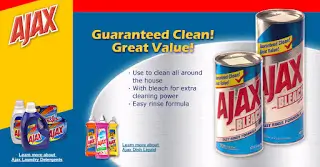
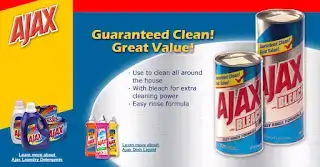
feat: shrink

diff --git a/blog-website/blog/2012-01-14-jqgrid-its-just-far-better-grid/index.md b/blog-website/blog/2012-01-14-jqgrid-its-just-far-better-grid/index.md
@@ -18,11 +18,11 @@ hide_table_of_contents: false
 
 The year was 2010 (not really that long ago I know) and the project that I was working on was sorely in need of a new grid component. It was an [ASP.NET WebForms](http://www.asp.net/web-forms) project and for some time we'd been using what was essentially a glorified [datagrid](http://msdn.microsoft.com/en-us/library/system.web.ui.webcontrols.datagrid.aspx) which had a few extra features implemented to allow us to change column order / columns displayed / copy contents to clipboard etc. Our grid worked perfectly fine - it gave us the functionality we needed. However, it looked pretty terrible, and had some "quirky" approaches in place for supporting IE and Firefox side by side. Also, at the time we were attempting to make our app seem new and exciting again for the users. The surprising truth is that users seem to be more impressed with a visual revamp than with new or amended functionality. So I was looking for something which would make them sit up and say "oooh - isn't it pretty!". Unfortunately the nature of the organisation I was working for was not one that lended itself to paying for components. They were occasionally willing to do that but the hoops that would have to be jumped through first, the forms that would need to be signed in triplicate by people that had nearly nothing to do with the project made that an unattractive prospect. So I began my search initially looking at the various open source offerings that were around. As a minimum I was looking for something that would do what our home-grown component did already (change column order / columns displayed / copy contents to clipboard etc) but hopefully in a "nicer" way. Also, I had long been unhappy with the fact that to get our current grid to render results we did a \***full postback**\* to the server and re-rendered the whole page. Pointless! Why should you need to do all this each time when you only wanted to refresh the data? Instead I was thinking about using an [Ajax](http://en.wikipedia.org/wiki/Ajax_%28programming%29) approach; a grid that could just get the data that it needed and render it to the client. This seemed to me a vastly "cleaner" solution - why update a whole screen when you only want to update a small part of it? Why not save yourself the trouble of having to ensure that all other screen controls are persisted just as you'd like them after the postback? I also thought it was probably something that would scale better as it would massively reduce the amount of data moving backwards and forwards between client and server. No need for a full page life cycle on the server each time the grid refreshes. Just simple data travelling down the pipes of web. With the above criteria in mind I set out on my Google quest for a grid. Quite soon I found that there was a component out there which seemed to do all that I wanted and far more besides. It was called [jqGrid](http://www.trirand.com/blog/):
 
-![](jqgrid-in-all-its-glory.png)
+![](jqgrid-in-all-its-glory.webp)
 
 Oooh look at the goodness! It had both column re-ordering and column choosing built in!: This was a \***very promising sign**\*! Now it's time for me to demonstrate my ignorance. According to the website this grid component was a "jQuery plugin". At the time I read this I had no idea what jQuery was at all - let alone what a plugin for it was. Anyway, I don't want to get diverted so let's just say that reading this lead to me getting an urgent education about some of the client side aspects of the modern web that I had been previously unaware of. I digress. This component did exactly what I wanted in terms of just sending data down the pipe. jqGrid worked with a whole number of possible data sources; XML, Array but the most exciting for me was obviously [JSON](http://www.json.org/). Take a look a the grid rendered below and the JSON that powered it (all from a simple [GET](http://www.trirand.com/blog/jqgrid/server.php?q=2&_search=false&nd=1326531357333&rows=10&page=1&sidx=id&sord=desc) request):
 
-![](Check-out-the-JSON.png)
+![](Check-out-the-JSON.webp)
 
 As you can see from the above screenshot, the grid has populated itself using the results of a web request. The only information that has gone to the server are the relevant criteria to drive the search results. The only information that has come back from the server is the data needed to drive the grid. Simple. Beautiful. I loved it and I wanted to use it. So I did! I had to take a few steps that most people thinking about using a grid component probably wont need to. First of all I had to write an ASP.Net WebForms wrapper for jqGrid which could be implemented in a similar way to our current custom datagrid. This was because, until the users were convinced that the new grid was better than the old both had to co-exist in the project and the user would have the option to switch between the two. This WebForms wrapper plugged into our old school XML column definition files and translated them into JSON for the grid. It also took [datasets](http://msdn.microsoft.com/en-us/library/system.data.dataset.aspx) (which drove our old grid) and translated them into jqGrid-friendly JSON. I wanted to power the jqGrid using WebMethods on ASPX's. After a little digging I found [Dave Ward of Encosia's post](http://encosia.com/using-jquery-to-directly-call-aspnet-ajax-page-methods/) which made it very simple (and in line with this I switched over from [GET](http://en.wikipedia.org/wiki/GET_%28HTTP%29#Request_methods) requests to [POSTs](http://en.wikipedia.org/wiki/POST_%28HTTP%29)). Finally I wrote some custom javascript which added a button to jqGrid which, if clicked, would copy the contents of the jqGrid to the clipboard (this was the only bit of functionality that didn't appear to be implemented out of the box with jqGrid). I think I'm going to leave it there for now but I just wanted to say that I think jqGrid is a fantastic component and it's certainly made my life better! It's: - well supported, there is lots on [StackOverflow](http://stackoverflow.com/questions/tagged/jqgrid) and the like about it
 

diff --git a/blog-website/blog/2012-04-23-jshint-customising-your-hurt-feelings/index.md b/blog-website/blog/2012-04-23-jshint-customising-your-hurt-feelings/index.md
@@ -18,7 +18,7 @@ hide_table_of_contents: false
 
 As I've started making greater use of JavaScript to give a richer GUI experience the amount of JS in my ASP.NET apps has unsurprisingly ballooned. If I'm honest, I hadn't given much consideration to the code quality of my JavaScript in the past. However, if I was going to make increasing use of it (and given the way the web is going at the moment I'd say that's a given) I didn't think this was tenable position to maintain. A friend of mine works for [Coverity](http://www.coverity.com/) which is a company that provides tools for analysing code quality. I understand, from conversations with him, that their tools provide static analysis for compiled languages such as C++ / C# / Java etc. I was looking for something similar for JavaScript. Like many, I have read and loved [Douglas Crockford's "JavaScript: The Good Parts"](http://www.amazon.com/JavaScript-Good-Parts-Douglas-Crockford/dp/0596517742); it is by some margin the most useful and interesting software related book I have read.So I was aware that Crockford had come up with his own JavaScript code quality tool called [JSLint](http://www.jslint.com/). JSLint is quite striking when you first encounter it:
 
-![](JSLint.png)
+![](JSLint.webp)
 
 It's the "Warning! JSLint will hurt your feelings." that grabs you. And it's not wrong. I've copied and pasted code that I've written into JSLint and then gasped at the reams of errors JSLint would produce. I subsequently tried JSLint-ing various well known JS libraries (jQuery etc) and saw that JSLint considered they were thoroughly problematic as well. This made me feel slightly better. It was when I started examining some of the "errors" JSLint reported that I took exception. Yes, I took exception to exceptions! (I'm \***very**\* pleased with that!) Here's a few of the errors generated by JSLint when inspecting [jquery-1.7.2.js](http://ajax.googleapis.com/ajax/libs/jquery/1.7.2/jquery.js): - `Problem at line 16 character 10: Expected exactly one space between 'function' and '('.`
 
@@ -32,7 +32,7 @@ JSLint is, much like it's creator, quite opinionated. Which is no bad thing. Man
 
 These were much more the sort of "issues" I was interested in. Plus it seemed there was plenty of scope to tweak my options. Excellent. This was good. The icing on my cake would have been a plug-in for Visual Studio which would allow me to evaluate my JS files from within my IDE. Happily the world seems to be full of developers doing good turns for one another. I discovered an extension for VS called [JSLint for Visual Studio 2010](http://jslint4vs2010.codeplex.com/):
 
-![](Extensions.png)
+![](Extensions.webp)
 
 This was an extension that provided either JSLint \***or**\* JSHint evaluation as you preferred from within Visual Studio. Fantastic! With this extension in play you could add JavaScript static code analysis to your compilation process and so learn of all the issues in your code at the same time, whether they lay in C# or JS or [insert language here]. You could control how JS problems were reported; as warnings, errors etc. You could straightforwardly exclude files from evaluation (essential if you're reliant on a number of 3rd party JS libraries which you are not responsible for maintaining). You could cater for predefined variables; allow for jQuery or DOJO. You could simply evaluate a single file in your solution by right clicking it and hitting the "JS Lint" option in the context menu. And it was simplicity itself to activate and deactivate the JSHint / JSLint extension as required. For a more exhaustive round up of the options available I advise taking a look here: [http://jslint4vs2010.codeplex.com](http://jslint4vs2010.codeplex.com/). I would heartily recommend using JSHint if you're looking to improve your JS code quality. I'm grateful to Crockford for making JSHint possible by first writing JSLint. For my part though I think JSHint is the more pragmatic and useful tool and likely to be the one I stick with. For interest (and frankly sheer entertainment value at the crotchetiness of Crockford) it's definitely worth having a read up on how JSHint came to pass: - [http://anton.kovalyov.net/2011/02/20/why-i-forked-jslint-to-jshint/](http://anton.kovalyov.net/2011/02/20/why-i-forked-jslint-to-jshint/)
 

diff --git a/blog-website/blog/2012-04-28-beg-steal-or-borrow-decent-javascript/index.md b/blog-website/blog/2012-04-28-beg-steal-or-borrow-decent-javascript/index.md
@@ -22,7 +22,7 @@ I've so named this blog post because it shamelessly borrows from the fine work o
 
 Like many, I've long been frustrated with the quirky DateTime serialisation employed by the `System.Web.Script.Serialization.JavaScriptSerializer` class. When serialising DateTimes so they can be JSON.parsed on the client, this serialiser uses the following approach: (from MSDN) [_Date object, represented in JSON as "\/Date(number of ticks)\/". The number of ticks is a positive or negative long value that indicates the number of ticks (milliseconds) that have elapsed since midnight 01 January, 1970 UTC."_](http://msdn.microsoft.com/en-us/library/system.web.script.serialization.javascriptserializer.aspx) Now this is not particularly helpful in my opinion because it's not human readable (at least not this human; perhaps [Jon Skeet](http://stackoverflow.com/users/22656/jon-skeet)...) When consuming your data from web services / PageMethods using [jQuery.ajax](http://api.jquery.com/jQuery.ajax/) you are landed with the extra task of having to convert what were DateTimes on the server from Microsofts string Date format (eg `"\/Date(1293840000000)\/"`) into actual JavaScript Dates. It's also unhelpful because it's divergent from the approach to DateTime / Date serialisation used by a native JSON serialisers:
 
-![](FireBug-Dates.png)
+![](FireBug-Dates.webp)
 
 Just as an aside it's worth emphasising that one of the limitations of JSON is that the JSON.parsing of a JSON.stringified date will \***not**\* return you to a JavaScript Date but rather an ISO 8601 date string which will need to be subsequently converted into a Date. Not JSON's fault - essentially down to the absence of a Date literal within JavaScript. ## Making JavaScriptSerializer behave more JSON'y
 
@@ -42,7 +42,7 @@ With this in place I could parse ISO 8601 Dates just like anyone else. Great stu
 
 Subsequent to writing this post I thought I'd check that IE 9 had implemented a JavaScript Date constructor that would process an ISO 8601 date string like this: `new Date("2011-01-01T00:00:00.0000000Z")`. It hasn't. Take a look:
 
-![](IE9-screenshot.png)
+![](IE9-screenshot.webp)
 
 This is slightly galling as the above code works dandy in Firefox and Chrome. As you can see from the screenshot you can get the JavaScript IE 9 Date constructor to play nice by trimming off the final 4 "0"'s from the string. Frustrating. Obviously we can still use Nathan's solution but it's a shame that we can't use the native support. Based on what I've read [here](http://msdn.microsoft.com/en-us/library/az4se3k1.aspx#Roundtrip) I think it would be possible to amend Sebastians serializer to fall in line with IE 9's pendantry by changing this:
 

diff --git a/blog-website/blog/2012-05-30-dad-didnt-buy-any-games/index.md b/blog-website/blog/2012-05-30-dad-didnt-buy-any-games/index.md
@@ -7,14 +7,14 @@ hide_table_of_contents: false
 
 Inspired by [Hanselmans post on how he got started in programming](http://www.hanselman.com/blog/SheLetMeTakeTheComputerHomeHowDidYouGetStartedInComputersAndProgramming.aspx) I thought I'd shared my own tale about how it all began... I grew up the 80's just outside London. For those of you of a different vintage let me paint a picture. These were the days when "Personal Computers", as they were then styled, were taking the world by storm. Every house would be equipped with either a ZX Spectrum, a Commodore 64 or an Amstrad CPC. These were 8 bit computers which were generally plugged into the family television and spent a good portion of their time loading games like [Target: Renegade](http://en.wikipedia.org/wiki/Target:_Renegade) from an audio cassette. But not in our house; we didn't have a computer. I remember mournfully pedalling home from friends houses on a number of occasions, glum as I compared my lot with theirs. Whereas my friends would be spending their evenings gleefully battering their keyboards as they thrashed the life out of various end-of-level bosses I was reduced to \***wasting**\* my time reading. That's right Enid Blyton - you were second best in my head. Then one happy day (and it may have been a Christmas present although I'm not certain) our family became the proud possessors of an [Amstrad CPC 6128](http://en.wikipedia.org/wiki/Amstrad_CPC):
 
-![](CPC6128.jpg)
+![](CPC6128.webp)
 
 Glory be! I was going to play so many games! I would have such larks! My evenings would be filled with pixelated keyboard related destruction! Hallelujah!! But I was wrong. I had reckoned without my father. For reasons that I've never really got to the bottom of Dad had invested in the computer but not in the games. Whilst I was firmly of the opinion that these 2 went together like Lennon and McCartney he was having none of it. "You can write your own son" he intoned and handed over a manual which contained listings for games:
 
-![](6a0120a85dcdae970b0120a86ddeee970b.png)
+![](6a0120a85dcdae970b0120a86ddeee970b.webp)
 
 And that's where it first began really. I would spend my evenings typing the Locomotive Basic listings for computer games into the family computer. Each time I started I would be filled with great hopes for what might result. Each time I tended to be rewarded with something that looked a bit like this:
 
-![](images.jpg)
+![](images.webp)
 
 I'm not sure that it's possible to learn to program by osmosis but if it is I'm definitely a viable test case. I didn't become an expert Locomotive Basic programmer (was there ever such a thing?) but I did undoubtedly begin my understanding of software.... Thanks Dad!

diff --git a/blog-website/blog/2012-03-17-using-pubsub-observer-pattern-to/index.md b/blog-website/blog/2012-03-17-using-pubsub-observer-pattern-to/index.md
@@ -68,7 +68,7 @@ var johnReilly = new JohnReilly();
 
 And it will look like this:
 
-![](CSharp-version-of-JohnReilly.png)
+![](CSharp-version-of-JohnReilly.webp)
 
 I was looking to implement something similar on the client and within JavaScript. I was keen to ensure [code reuse](http://en.wikipedia.org/wiki/Code_reuse). And my inclination to keep things simple made me wary of making use of the [prototype](http://bonsaiden.github.com/JavaScript-Garden/#object.prototype). It is undoubtedly powerful but I don't think even the mighty [Crockford](http://javascript.crockford.com/prototypal.html) would consider it "simple". Also I had the reservation of exposing my object to the global scope. So what to do? I had an idea.... ## The Big Idea
 
@@ -118,7 +118,7 @@ console.log(JSON.stringify(oJohnReilly)); //Show me this thing you call "JohnRei
 
 And it will look like this:
 
-![](JavaScript-version-of-JohnReilly.png)
+![](JavaScript-version-of-JohnReilly.webp)
 
 And it works. Obviously the example I've given above it somewhat naive - in reality my object properties are driven by GUI components rather than hard-coded. But I hope this illustrates the point. This technique allows you to simply share functionality between different JavaScript files and so keep your codebase tight. I certainly wouldn't recommend it for all circumstances but when you're doing something as simple as building up an object to be used to pass data around (as I am) then it works very well indeed. ## A Final Thought on Script Ordering
 

diff --git a/blog-website/blog/2012-02-23-joy-of-json/index.md b/blog-website/blog/2012-02-23-joy-of-json/index.md
@@ -49,7 +49,7 @@ var anotherCarMadeFromMyJSON = JSON.parse(myCarJSON);
 
 I've also demonstrated this using the Chrome Console:
 
-![](Using-JSON.png)
+![](Using-JSON.webp)
 
 Crockford initially invented/discovered JSON himself and wrote a little helper library which provided a JSON object to be used by all and sundry. This can be found here: [JSON on GitHub](https://github.com/douglascrockford/JSON-js) Because JSON was so clearly wonderful, glorious and useful it ended up becoming a part of the EcmaScript 5 spec (in fact it's worth reading the brilliant [John Resig's blog post](http://ejohn.org/blog/ecmascript-5-strict-mode-json-and-more/) on this). This has lead to JSON being offered [natively in browsers](http://en.wikipedia.org/wiki/JSON#Native_encoding_and_decoding_in_browsers) for quite some time. However, for those of us (and I am one alas) still supporting IE 6 and the like we still have Crockfords JSON2.js to fall back on.
 

diff --git a/blog-website/blog/2021-12-29-preload-fonts-with-docusaurus/index.md b/blog-website/blog/2021-12-29-preload-fonts-with-docusaurus/index.md
@@ -2,7 +2,7 @@
 title: 'Preload fonts with Docusaurus (updated 03/11/2022)'
 authors: johnnyreilly
 tags: [Docusaurus, preload, webpack, fonts, plugin, configureWebpack, headTags]
-image: ./title-image.png
+image: ./title-image.webp
 hide_table_of_contents: false
 ---
 
@@ -12,7 +12,7 @@ It does so by building a Docusaurus plugin which makes use of [Satyendra Singh](
 
 **Updated 03/11/2022:** Subsequently this post demonstrates how to achieve font preloading directly, by using the the `headTags` API.
 
-![title image reading "Preload fonts with Docusaurus" in a ridiculous font with the Docusaurus logo and a screenshot of a preload link HTML element](title-image.png)
+![title image reading "Preload fonts with Docusaurus" in a ridiculous font with the Docusaurus logo and a screenshot of a preload link HTML element](title-image.webp)
 
 ## Preload web fonts with Docusaurus
 

diff --git a/blog-website/blog/2012-03-03-jquery-unobtrusive-remote-validation/index.md b/blog-website/blog/2012-03-03-jquery-unobtrusive-remote-validation/index.md
@@ -176,7 +176,7 @@ attribute for an input if you wish it to be evaluated with unobtrusive validatio
 
 Validation in action:
 
-![](validation-screenshot2.png)
+![](validation-screenshot2.webp)
 
 Well I've gone on for far too long but I am happy to have an approach that does what I need. It does feel like a slightly hacky solution and I expect that there is a better approach for this that I'm not aware of. As much as anything else I've written this post in the hope that someone who knows this better approach will set me straight. In summary, this works. But if you're aware of a better solution then please do get in contact - I'd love to know!
 

diff --git a/blog-website/blog/2012-03-12-striving-for-javascript-convention/index.md b/blog-website/blog/2012-03-12-striving-for-javascript-convention/index.md
@@ -44,7 +44,7 @@ iAmANumber('I am not a number, I am a free man!'); //Calls a function which perf
 
 Now if I were to attempt something similar in C# fuggedaboudit but JavaScript; no I'm romping home free:
 
-![](Mad-Stuff.png)
+![](Mad-Stuff.webp)
 
 Now I'm not saying that you should ever do the above, and thinking about it I can't think of a situation where you'd want to (suggestions on a postcard). But the point is it's possible. And because it's possible to do this deliberately, it's doubly possible to do this accidentally. My point is this: it's easy to make bugs in JavaScript. ## What ~~Katy~~ Johnny Did Next
 
